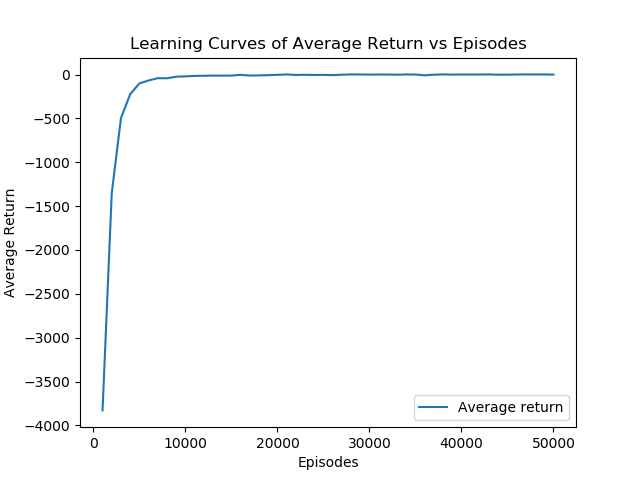
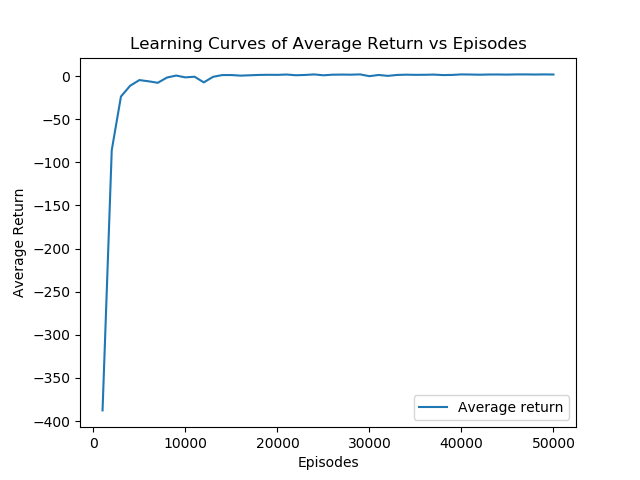
Added Part5 learning curve

diff --git a/tictactoe.py b/tictactoe.py
@@ -254,12 +254,14 @@ def plot_learning_curve(learning_data, filename="Part5LearningCurve"):
 
 if __name__ == '__main__':
     import sys
+    random.seed(0)
+    np.random.seed(0)
     policy = Policy()
     env = Environment()
 
     if len(sys.argv) == 1:
         # `python tictactoe.py` to train the agent
-        plot_result_dict = train(policy, env, gamma=0.7)
+        plot_result_dict = train(policy, env, gamma=0.9)
         plot_learning_curve(plot_result_dict)
     else:
         # `python tictactoe.py <ep>` to print the first move distribution
